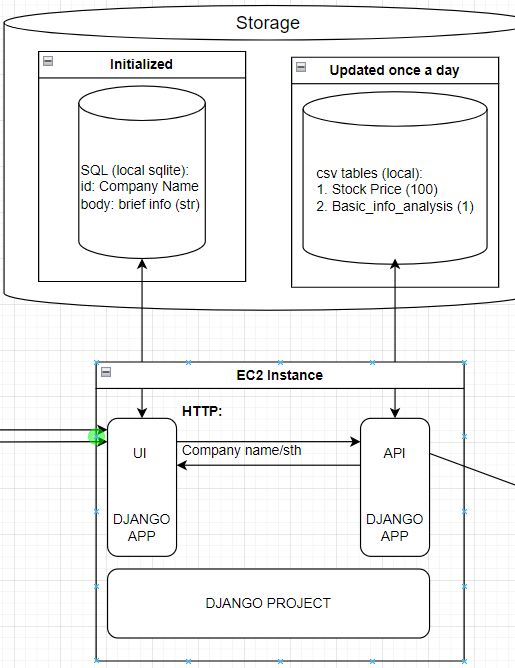
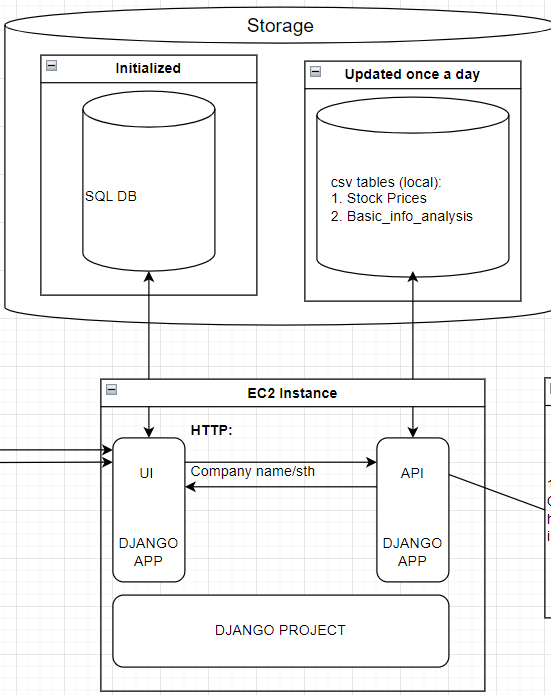
First few fixes

diff --git a/_posts/2024-01-02-cmpnyinfo-the-planning.md b/_posts/2024-01-02-cmpnyinfo-the-planning.md
@@ -4,7 +4,6 @@ title: "cmpnyinfo: the planning"
 categories: cmpnyinfo
 ---
 
-
 ## Introduction
 
 I am trying to make a website, where the users can search up a name of a company in the _KOSPI(Korean Composite Stock Price Index)_, and get the basic financial information of the company over the past decade or so.
@@ -19,7 +18,7 @@ Here's what I mean by 'financial information.'
 
 It is basically providing people a easy-to-access, easy-to-read financial statements of their company in interest, along with some essential analytical datas, ***ALL REPRESENTED IN GRAPHS***, so that you can effectively read the trend.
 
-There are already websites like investing, but I want a more _light-weight, casual_ and perhaps maybe even mobile friendly website, _without all the pop up adds and advertisement videos playing in the corner._ 
+There are already websites like investing, but I want a more _light-weight, casual_ and mobile friendly website, _without all the pop up adds and advertisement videos playing in the corner._ 
 
 **Key Values/Goals**
 
@@ -34,7 +33,7 @@ There are already websites like investing, but I want a more _light-weight, casu
 Whenever I have to build something in a level any bigger than a single, file, I draw out the general structure. Like this.
 ![draw.io](/assets/img/cmpnyinfo_general_struct.png)
 
-Sorry for the unreadable texts. Here's the url to the [diagram](https://viewer.diagrams.net/?tags=%7B%7D&highlight=0000ff&edit=_blank&layers=1&nav=1&title=cmpnyinfo.drawio#R7Vzdd6I4FP9rPKfzoAfCh%2Fio1p3pnGnr1s6Z2XnpQYiaKRIX6Fj7129CQCCJFRmwOt2HWrjEQH73%2B%2BZiSxsunz8G9mpxjV3otYDiPre0yxYAQFEN8o9SNoyiAtBllHmA3ISWESboBSZEJaE%2BIReGhYERxl6EVkWig30fOlGBZgcBXheHzbBXvOvKnkOBMHFsT6R%2BQ260YFQrXQWlf4JovkjvrJo9dmVpp4OTlYQL28XrHEkbtbRhgHHEjpbPQ%2BhR9FJc2Pf%2B2nF1%2B2AB9KMyX7hpD%2FqTl0378ub6%2Ft68vhqoq3Y7meWX7T0lC04eNtqkCJDnXtFDZ%2BMh34WB1tIG6wWK4GRlO%2FTCmrCe0BbR0iNnKjmc4icy0v0y3RJs53EeUOrtU0SmgQk9ZPwmUqINxPWkDweDCD7nSMn6PkK8hFGwIUOSq1o3wTqRNk3R2fk6Y51qJmMWebYZCdFOxGW%2BnTtDlBwkoB4AMBAAHg1FjAMGWILKHnRrAAooRaC6uiIABSwJUGZTOGn7BfEgkAIc2RHCPjlt9xRCsD00p2cenEX1gKhy0makqp%2BXNnBMEHUBxK9XLWDaSwqOPw1X24XnYCWrjYrYhVGAH%2BEQezggFB9TdR3MkOdxpBRSh2AICX1AsUPEdvaTC0vkuvQ2UmZl7FSaEWpDF%2FkhU35dbYgdxvnJtNY7NZk2BRD7YyrUHl3xNCBH8%2BiPFmsdnJhYd%2FeLNfTdPg2%2BKIqeHYbI4SU5DxLBJth8z5%2F8Q086wEjPL5%2FzVy836dkzir4nU9Lj%2FNfIafYterLZx5IQPwUO3G9eIzuYw2i%2FyEK3EFqKDM4x0JAwMKUF0CNq%2F6sYkMq4mtxhjBFZWWYWrR0qnU7B1p18Kx9AchNpKjeRyk3EgBEmioVsu%2BzqcmdJ5I6ZgYWamQFGmeH4yTORNP99wumFNgs7%2B2SAClbP7GvJ9XSiT%2Ff343gIm488MJuyeBtCFu%2Ftol8paYiXK9unvPbtJSSjQ8Lw7Lu5kTXar5AYJOTPCcHIzu7xiroNoOwwW5gYpJkXa%2ByCmDfoN%2BKhTU6CFIl30QxRFaymvEtPkKlrG%2FlpXgiUi%2FV63XGWK3%2BD%2FBnuOHj5QeBUuEZLz%2FZ3OYR6I%2Fd2l3MHwBIxNGQeWtObAjG1CzkUQ2gHDhF1ZWoHvxf0iJi9ysjy0TuIPUUeSlkSZGgikqAxIEuk478XMTaFplEUSlXPwM2jqXdFNFXF7BhNASqm319QSD0DnpEPZp4RDGu0vlxMXmvs2JjkW6Lky0LKxsywKmauZyL4QO91LKsApmluKXm%2Flq6xIPs5VtQPqph%2FXpHwGdMQNv5YUA%2B3htOQQNmABjSTP9XEtm6X1wE1NRZ7lEBrTAnEVPd8lWBbjHlbFRBz1W%2BpvCs0omNZAFwim8xF7qHMUbR4msbH70shDI1XCKAbHYlOWBImNqcTYtKX5VQ7Y3RyK4eNeqB516mF7GbZkF1vzuGKic%2FRQ%2FYtb886Zk%2BN9Jtb7Qpw9tSOrhfgNDq6Vs5uA13rqFpToIrbQYMAwSxmp6tIgpmhrBicq8RIikDUlLcTq0zt%2F7Z%2BzleB0olCckvpTNnGZtthRr8fexYUUY8imzJ7fra47PlpeSi%2Bj1BjKtSJTndpGxgS%2F%2Bbam3g%2B7Dwyl7ogQkMWQYtLf9Bi6apgnErG9SIj1hkIH0O2aLLaHVcPWv85xyAVDJJWdJSStHRr8IslhMas%2B6kkphXAtISgnJZl1NL2vTFMxbx0YIfIebiiATnt0QnobX3b24SIKIxyb0%2B9M09QD2cfULiEikbjIu%2BOGo0DMUO9g7%2Bgn7gx5faK%2Fb9J%2Ft%2Fd9tODETkYjSfkczy6Y0QcLSDl9Jy2joV7%2BxSqqtlRLZamlTVZdahXYHnEW7R%2Ffh07ePTwgh5%2FWkPJNlm8Yf6%2BtIfvBCOpVMcwBdY0Vd%2BRMkZUnm%2Bjd%2BfiecaoqtQlHZUxYi78LjVGKABplriFc9SKKBBtmRPSVCCiEQENDS48THD8kNupz7JAtUMGTFgeoowD5MTFIhIrfhDHAjqWRSG0iPSQiz4uVLF%2BdJrbQ4d3e1m89yrbL6s2xnJRGSd%2Ff9lymrLhX49AI2c5nbpfKBLcxH0X%2FLgppg3pdOQ0KSsgFnteED5KyoVHaoFuokeVq%2Bn2JB0XqozDjXVEp9bi4P6xMLKD6JC2Mml3WFPNYYkP29sclgr4qXSHcQGsoVXsDuPbzHSLm6jh7jCtRB22lrbE1us9iTslaK9k6CclGG2%2BnVrXK0pGW%2BW6Q7ReOdEgvIpriemwFR0QvvLIuvyJdz4YN94ojicH7AnqldMSFaUD5bSCnavcclvdQKYh6bnpgcoZtm5VC9nmiwVmSRP5u3rQAwfqgVl4k6whPSjxdkQ1PVAKetAtqQhqURG6zSmCeZZ6oPGb2EbVNnKuAmAqRw4UxJ6QOxg9Bb7YBVi%2BTSCOTZO3V4FWT%2BxumDsiqnxtUZFwHDS2HaKJ2VmcZX%2Be3N604sr90o7EdEu256mU2y1UKu%2Bz0atLdtclDprYPzhai%2BdWZPfLzrb9qpyoqI11mKSvH%2BVfRly5dkTWDhTsx8UYm%2FzFAlBZ72pQM41TM9CVFEFk78LWombSgmSJNvATypBfZf%2BJeC%2Br1%2BEKISbXc1jWfXEvSG4LLPV7L6loiFnuFWtSIL7HfVtFUrkwEsjeHT2uIpV4q%2FyEFOk1hv%2BvR%2FXq0WFZeOL4j5KCv33ikUZ5JyJzOpeAm%2Fx7p2VFztg3UX0yZ09fZlc%2F1j9RtHkYDn9cOlifSNz65ef%2BzcdbQuuPx4L8ndKGo%2BAFJBL4SivLDtyPsK8oZYToRN8HI%2FifEnhzRoj%2BecuI8d3t59HwXmBGhU70eoW3K0mtavqpHHKa%2FR4UszrZz2ppo%2F8A)
+Sorry for the unreadable texts. Here's the url to the [diagram](https://viewer.diagrams.net/?tags=%7B%7D&highlight=0000ff&edit=_blank&layers=1&nav=1&title=cmpnyinfo.drawio#R5Vxbc9o4FP41zHQfYCzJNuaRELabTpPQkE67%2B5IxtgJujEVtE0J%2F%2FUq%2BWxLFIRYhTWca7GMhW9%2B5Hx%2FRQaPl08fQXi0uiYv9DtTcpw4670AIAQL0g1G2KaWvwZQwDz03JYGSMPV%2B4YyoZdS15%2BKoNjAmxI%2B9VZ3okCDATlyj2WFINvVh98Sv33Vlz7FAmDq2L1K%2FeW68SKkW7Jf0f7A3X%2BR3BuYgvbK088HZSqKF7ZJNhYTGHTQKCYnTo%2BXTCPsMvByX9Ht%2F77haPFiIg7jJF%2BzZr%2FuL%2FzY%2FvHh7Nxr9d%2B4Qfdo101kebX%2BdLTh72HibI0Cfe8UOna3vBS4OUQedbRZejKcr22EXNpTzlLaIlz49A%2FRwRtZ0pPt5VhBs52EeMur1OqbT4IwepfwGBj0W15Mt8RGHMX6qkLL1fcRkieNwS4fkV3OpyYQNWNn5pmSdbma0RYVt0DQykcnEZV7MXSJKDzJQ5QBfdc%2BG01%2Fb7vnV5e2teXlxBlbdLvijAEb9OsDQMASAgQxgYGiKAEb7AQ5TtDJI9kAbktiOPRLQ0%2B5AowTb9%2BbszMf3cUtiyqFo5DajiiKUoGiqAlEXQPx60YGmvWTgBLNoVSy8AitdbVzHLopD8oBHxCchpQSEieHZvef7HCmH1KEYYko%2FY9h51OgOswtLz3XZbaTMKtmptcMPqHH80EV%2ByIRaB4rYYbw9mUaDU5Np0bUNJ0yofbbiWUiP5vEfLdY6PDGx7u8Xaxy4Qxa1MRR9O4o8h5fkKkgUm3D7vXryLzvpQSM%2FP3%2BqXj3f5mdPXvw9m5IdV79GT8tvsZPtPpZEZB06eL95je1wjuP9IovdWkwqMrjCQEPCwJwWYp%2Bq%2FWM9kpVxNbvDhHh0ZaVZtHaodD5Fuu7sW9XIk5sIcWGZAbiJUmCEiRIhK5Z9uNxZErlLzcAClGYgpdyT5MlLkTR%2Frkl%2BoZuGU0M6AMDVU%2Fq17Ho%2B0T%2B3t5NkSDoffeB0yvptKFm8t%2Bs95qQRWa7sgPE6sJeYjo4ow8vvVka2aL8iapC8YE4JRnl2S1bMbUBth9ki1CDd%2B4nGLqh5w4ESD21yEqRJvAsyRFWwVHmXgSBTl7YX5Akl1D5sNpues1wFWy%2B4Jz2HLP8SOBVtvKVvB7scQoWDLUDY7XPuAOlicmTIPHQxsP3kSBNQjLAdOlTUtZkdvizoETH7LSObR%2B8w8RRVKCVIQgOJSEJlQDZIM18WMapC0%2BAydr0Et4qm3hfRBJrZU5a2QwHQz17EPAO5p39S8%2BzhqEXry8XkrcaOyiRfUmCRhZTKzDAQM9c3IvhQH%2FQsqwamaRaUql%2FL11iT%2FQor2gdVzD8vaPhMWAib%2FFkwD7fBs4hCqUAD1ORPLbGt3%2Bd1AOTGYo8SIGVK0KCK%2B2aUoCjGvK4KiLnqt1zeNRbRpVkAXno2nYveQ5t78WI9S47fl0IYiFcIqBs9iU5YEiaq0wkx6Stzqp0xOr2Vk466Y3nXqYXspiWmPdKQXVfncMXE5%2Bghe8HbNx2z50b61a32AXAOQE%2FXa3AaPR01s9tQRz2AVIEqvg46Cz1cxuxsFVkwM5IVgyuVGEkRiJnybmaVmf0v6ud8FSifKKK3lM5UvrDrOqnRHyaexYuZR5FNWT5%2Furjy%2BVl5KLmPUGOq1YlOd2lbHFH%2F5trbZD7iPKQudUGFhi6CFZf%2BoMWyVeEklUzqRUaiMxg%2FROmi6Wp3XH3W%2Bt9yDHKAQUJ1RylJSwuDXy8hKLPup5KYHgCmJQTlrCwDGtt3ZZiKeemZHXnO3QULyFlzT8huG9j%2BNvKowmi39sx%2F4wnq89kHNS6hYtG4yLujRuNQzFBv8CMOMjemXV%2Bkn1fZ5831MD8Y04PxZEr%2FTsY3KZHEC8w4PWctZ9HePoVD1eyoFguhpiarDfUKLZ96i%2B6PrxOHjO9%2BeQ8%2FrJHkNVnywvx9aY%2FQ4aRbPcMUWKOqviNljKg838bvzsXzjAFA6pKOyhgxF36XGiMUgJAlvsI5akUUirbMiVgqELOIgIUGH3xCcfyr8qa%2BzAJBjw6YpnmINgk9B0fiIMgGpeEHqx7dlWFH6%2BxX8Ubo%2BQ1eXDcIlPBY3voJlHFZ1L%2Fpl8%2BUcC5ax2M12aroFuWqq4asQH7cnlvxvb0AuLSTK4rtMH5Og5e0T0tVm1bmTfa2aeVydyp9WlwoaaAD%2B7T4hi%2Fd4iZS3KeFGlREW2kQ7Py%2BO3CnBO2VDP2kBKPLNzbr%2BoGS0QVcnwYaNBMNyqukqpcPW7EB0W8eWZc%2F8c4H48Yb9fH0IH2CduW0QW3nmXJ6gJ07uPn1cAOZB4dvTQ8AZ9j6h1rILp%2B2mw1N5Ev1YACfqQdmbTOYIj1osE%2FhMD3QanrQb6gIoK4IfXWKYL5JPUD862Tj0IZuLhc3tSMHCmJ3xg2O12EgZl%2FNX9gnsWm2ARWidmJ3w9wRUVWrfJqE41DZiwkkJk1Jvvtpen3VSWroSzsW013Z20et2Xs77eA3XuzqMr3rkoQqKvlHa7YsRHa%2F7BSNUM1EBSjr9cg3AlW3Ba5cO6ZrhxoJHNZDY9P%2FiQAcrHctqBni1AxKWogLmFpXM2lpsEFD9gllyL9l%2F15vaJyUl7MGPa5gwm%2FuburmuC2NRSGmfS8nFSExG75I2wqoj3JfV%2BGAziucpCZ1XIV7Xk6WuYGjJGSvH4bmPv9ENFTn0jGT3w%2FYVEGNfRO1p6HSX88Qjfz5p%2BHVx2tKG04mCsKVE9lZzNeVCtyP8L5HygjRVL4PRvBbvF%2BdEWL7ZcGIyc31p%2FHoVmDGCzuEXy68fUmgLfNdbfxSgRQ00XWNR4xwEdBoMAmzX9XXc2GQPhDxQrImdHWAyX5I4Jnbt80d27enMQmT3QE7tm%2F%2FqZaE36Mv%2B%2BkkVZZkHn9Z%2FPz%2B5fPXMB4%2F3Vrgk3F3JfGt1Q3WxtklmXkUHoNeUbLZWoBOAvBONLsmkBgVKX7KABR9YtsbNfZAtJutO3GzegNzUP1XtzwNW%2BTa2LIhfXjlv8ujCldUw7Hf7%2BX7qWu7XyR7rGmE0dP6iuAU%2B9qSnRnuOvkViuo%2B0xPfZto%2BwyDqDfp1gwwoJ4DINVnnxwE2hZ6WP0WY5kflDzqi8f8%3D)
 
 **Tech Stack**:
 
@@ -52,15 +51,13 @@ Sorry for the unreadable texts. Here's the url to the [diagram](https://viewer.d
 
 ## Challenges
 
-To talk about a little bit about my self. I am _pretty new to building websites_. 
-
 - ***AWS*** 
   
-  - This will be my _first ever project to use AWS_. I have previouse experience with PaaS (render), but not IaaS. 
+  - This will be my _first project to use AWS_. I have previouse experience with PaaS (render), but not IaaS. 
 
 - ***Graphs***
   
-  - Drawing graphs using the plotly library, and displaying onto the webpage, 
+  - Drawing graphs using the plotly library, and displaying onto the webpage
   
   - handling the graph between the API app and the Web app,
   

diff --git a/_posts/2024-01-03-cmpnyinfo-the-architecture.md b/_posts/2024-01-03-cmpnyinfo-the-architecture.md
@@ -6,7 +6,7 @@ categories: cmpnyinfo
 
 ## Introduction
 
-I usually like to plan things through before I do it. Especially if I am working on a project like this. And there is a literal study revolving how to make a software, called _software architecture._ I am not exactly an expert in this field. But I tried to apply some concepts from it, on the process of planning how to design my website.
+I usually like to plan things through before I do it. Especially if I am working on a project like this. And there is a literal study revolving how to make a software, called _software architecture._ I tried to apply some concepts from it, in the process of planning how to design my website.
 
 ## Software Architecture Pattern
 
@@ -14,11 +14,9 @@ There are several software architecture patterns, which I am not going to explai
 
 **What is modular monolithic architecture?**
 
-According to my friend, GPT, it is basically when you 
+It is basically when you 
 1. seperate parts of your software into differnet _modules_ that does certain things
 2. and those _modules_ are all built in one giant monolithic service, in this case, an EC2 instance.
-
-Now if you ask me what exactly this _module_ stands for, I have no idea. That's what I'm wondering as well.
 
 ## How it applies to my website
 
